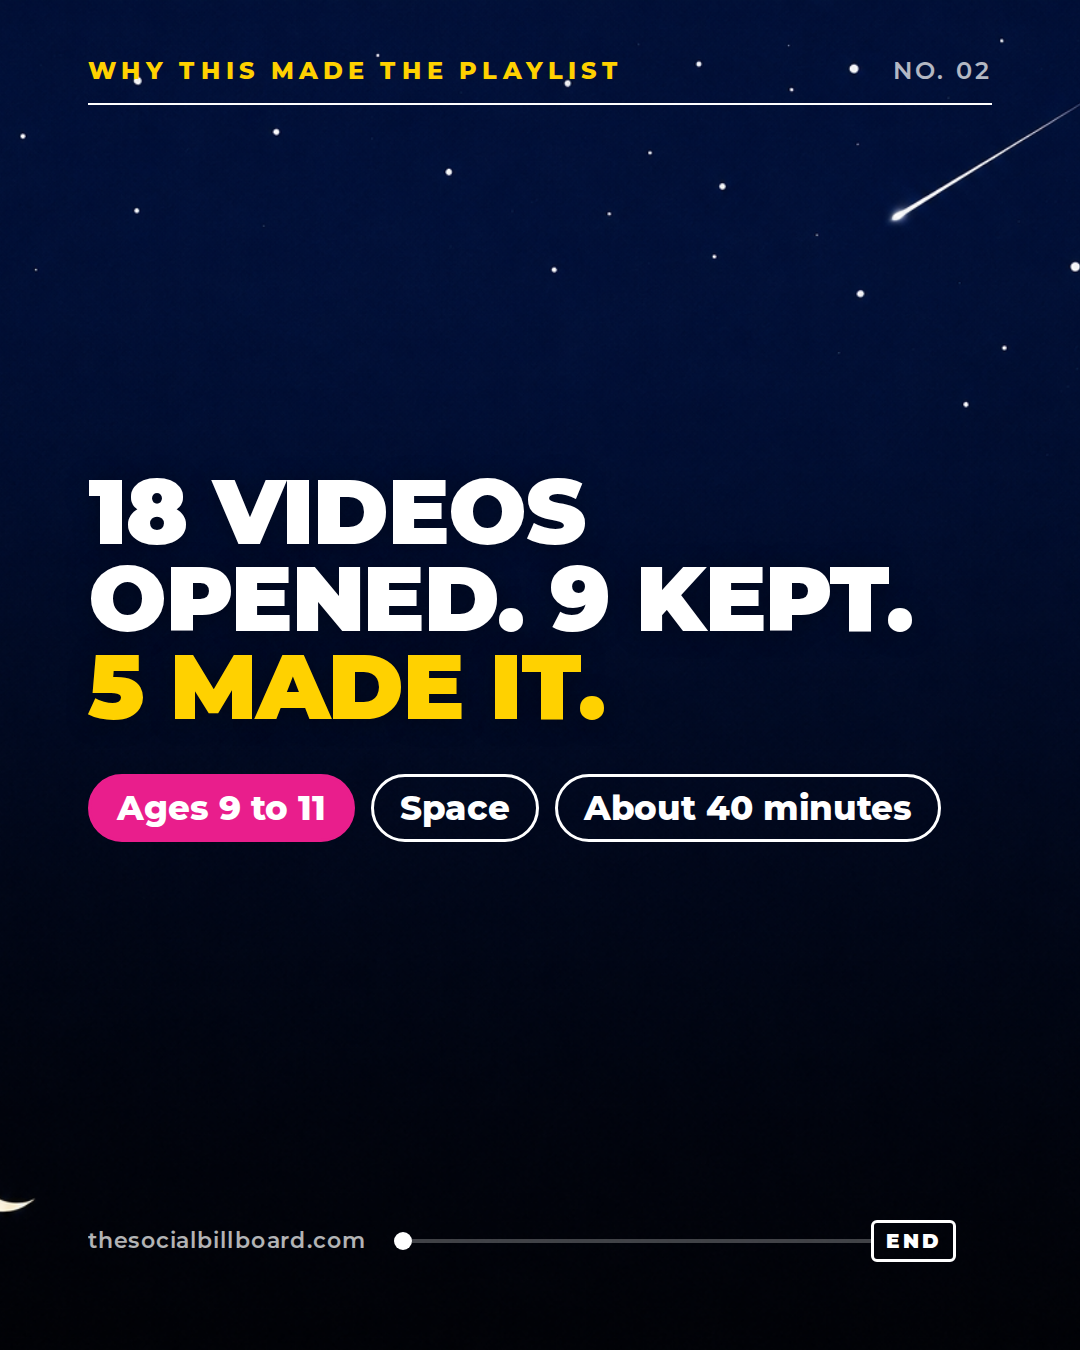
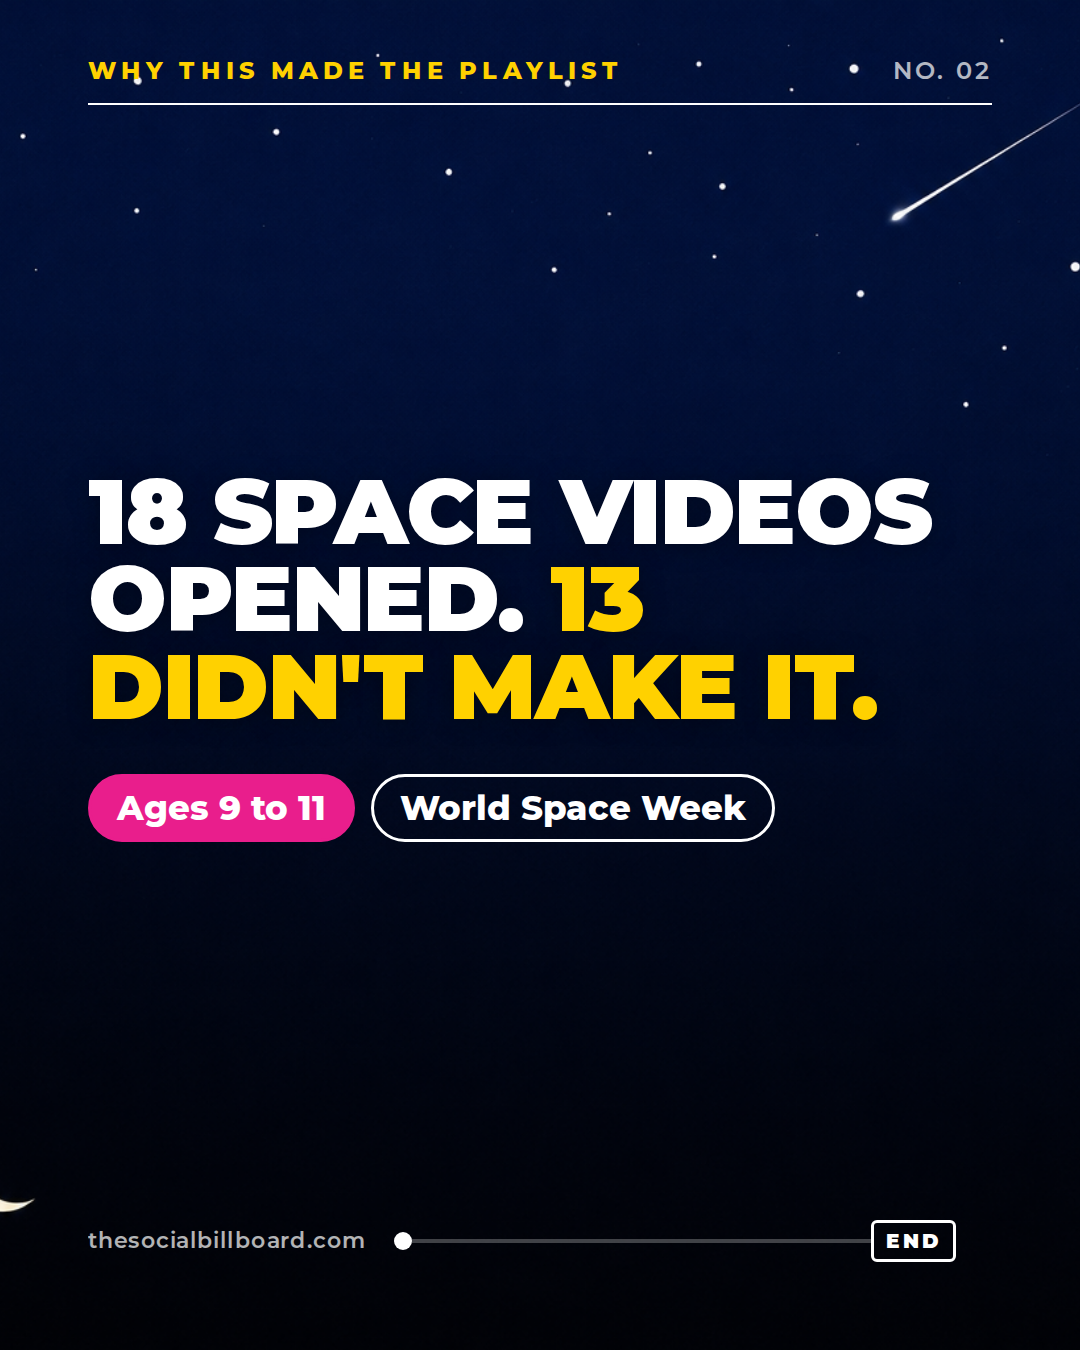
SB launch: redo the Space review carousel with platform rules
Ten slides: curiosity hook, a standalone second hook for the slide 2 re-show,
the cuts, the five questions, what made it, the one autoplay study, honest
limits, a send ask. Alt text per slide. Facebook link moves to the first
comment. The rules are saved in the sb-carousel skill.

Claude-Session: https://claude.ai/code/session_01V25U8gXKTwGPFtnMkF6qQN

Changed region(s): [[0.0917, 0.3422, 0.8861, 0.56], [0.3667, 0.56, 0.8861, 0.6222]]

diff --git a/plans/sb-parent-launch-control.md b/plans/sb-parent-launch-control.md
@@ -370,52 +370,92 @@ Caption (IG and FB):
 Confirm before it goes: that the first version was built with developers
 (the source says so; you know the detail).
 
-**DAY 4. Why These Five Made The Space Playlist.** Carousel, nine slides,
-`decks/series-12-why-this-made-the-playlist-space.json`, renders in
+**DAY 4. Why These Five Made The Space Playlist.** Carousel, ten slides,
+`decks/series-12-why-this-made-the-playlist-space.json` (the brief, the
+sources and the alt text are in the deck), renders in
 `content/packs/2026-10-05-sb-launch-control/renders/day-04-why-this-made-the-playlist-space/`.
 Added 5 October, when Justin approved Space and asked whether to show the
 review behind it. Yes: the review is the proof of the product, and every
-line comes from the Safe Watch handoff ("why we chose this playlist" and the
-internal playlist notes), nothing added. It goes out during Space week,
-which is why it takes Day 4 and How it works moves to Day 8.
+line comes from the Safe Watch handoff, nothing added. Redone the same day
+with the carousel method from the video and current Instagram and Facebook
+practice (the verdicts are below). It goes out during Space week, which is
+why it takes Day 4 and How it works moves to Day 8.
 
-1. 18 videos opened. 9 kept. 5 made it. (age chip, Space, about 40 minutes)
-2. The problem: you haven't got time to open 18 videos on a school night.
-3. Five questions, every video: plays in the UK, who made it and who paid,
-   how long, what's in it, where the next click goes.
-4. What got cut: a brand funded series; a stargazing video that was really a
-   kit advert.
-5. Also cut: two lovely films one click from "How will the Universe end?"
-6. Nearly got wrong: the observatory's guide presented by a guest. We looked
-   her up.
-7. Why about 40 minutes: no official limit at this age, so one session.
-8. Honest limits: new channels, shorter check, not the full panel; open
-   YouTube comments on four of five; no list is zero risk.
-9. Every week, we open them first. GET A FREE PLAYLIST.
+1. Hook: 18 space videos opened. 13 didn't make it. (age chip)
+2. Second hook, because Instagram shows a carousel again from slide 2 to
+   people who scrolled past slide 1: nobody has time to open 18 videos on a
+   school night. So we did.
+3. Cut: a brand funded series, from a presenter I rate.
+4. Cut: a stargazing video that was really a kit advert; two films one click
+   from "How will the Universe end?"
+5. Nearly got wrong: the observatory's guide presented by a guest.
+6. Five questions, every video.
+7. What made it: the five videos, about 40 minutes.
+8. Why five, not fifty: the one small autoplay study (Hiniker, 2018).
+9. Honest limits.
+10. Send this to a parent with a space mad child. GET A FREE PLAYLIST.
 
-Caption (IG; Facebook adds the link):
+Instagram caption:
 
-> Why these five made the Space playlist.
+> Space videos for 9 to 11 year olds: we opened 18 and kept 5. Here's what we cut, and why.
 >
-> Eighteen videos opened and checked this week. Nine kept. Five made it.
+> A brand funded series from a presenter I rate, because a children's playlist shouldn't double as an advert. A stargazing video that was really a kit advert. Two lovely films that sit one click from "How will the Universe end?"
 >
-> What got cut is the interesting part. A brand funded series from a
-> presenter I rate, because a children's playlist shouldn't double as an
-> advert. A stargazing video that was really a kit advert. Two lovely films
-> that sit one click from "How will the Universe end?"
+> The one I nearly got wrong was a stargazing guide on an observatory's channel, presented by a guest creator. I looked her up and she checks out, so it stayed. You have to look every time.
 >
-> And the one I nearly got wrong: a stargazing guide on an observatory's
-> channel, presented by a guest creator. I looked her up and she checks out,
-> so it stayed. You have to look every time.
+> What made it: five videos, about forty minutes, ending with a beginner's guide to stargazing. The Draconid meteor shower peaks tonight, best just after dark.
 >
-> These channels are new to us, so they had our shorter check, not our full
-> panel. I'd rather tell you that than imply more.
+> These channels are new to us, so they had our shorter check, not our full panel. I'd rather tell you that than imply more.
 >
-> Get a free playlist: link in bio. And tell me one thing you'd want us to
-> check that we haven't.
+> Send this to a parent with a space mad child. Your first playlist is free: link in bio.
+>
+> #WorldSpaceWeek #Draconids #ParentingUK
+
+Facebook: all ten as one photo post, the same text with this ending:
+
+> Space videos for 9 to 11 year olds: we opened 18 and kept 5. Here's what we cut, and why.
+>
+> A brand funded series from a presenter I rate, because a children's playlist shouldn't double as an advert. A stargazing video that was really a kit advert. Two lovely films that sit one click from "How will the Universe end?"
+>
+> The one I nearly got wrong was a stargazing guide on an observatory's channel, presented by a guest creator. I looked her up and she checks out, so it stayed. You have to look every time.
+>
+> What made it: five videos, about forty minutes, ending with a beginner's guide to stargazing. The Draconid meteor shower peaks tonight, best just after dark.
+>
+> These channels are new to us, so they had our shorter check, not our full panel. I'd rather tell you that than imply more.
+>
+> What would you want us to check before a video reaches your child? Tell me and it goes on the list.
+>
+> The link to get a free playlist is in the first comment.
+
+First comment, posted straight after:
+
+> Your first playlist is free, one child profile, no card needed: https://thesocialbillboard.com/safe-youtube-for-kids?utm_source=facebook&utm_medium=post&utm_campaign=sb_launch
+
+How to post it (19:00, Friday 9 October):
+- Paste the alt text for each slide from the `.alt.txt` files (Instagram:
+  Advanced settings, Accessibility).
+- Within the hour, share it to your Story with a link sticker to the
+  playlist page, then the Space Stories (hero card, "Look up tonight"). The
+  sticker is the one tappable link on Instagram besides the bio.
+- Reply to every comment in the first hour, in a full sentence, with a
+  question back.
+- Music on the carousel is optional: a quiet track from the library, never a
+  trending sound for its own sake.
 
 Never on the slides or in the caption: the video links, "safe", "nine
 checks", "no autoplay" (waits for G2).
+
+**Expert advice, through the feedback filter (5 October).**
+Adopt: the video's brief (who, why, CTA, slide count, words per slide);
+slide 2 as a second hook; a send prompt as the Instagram call to action,
+because sends to a friend are the signal Instagram weighs most for reach
+beyond followers; search words in the first line of the caption; three
+hashtags at most; alt text; the Story link sticker; replies in the first
+hour; the Facebook link in the first comment with a question to end the
+post. Adapt: a face on slide 1 lifts carousels, so once there is a photo of
+Justin holding the phone with the playlist on screen, it replaces the night
+sky. Decline: "comment YES" style asks (Meta demotes engagement bait),
+chasing trending audio, and paying to boost before any post has a result.
 
 **From week 2 this is the Tuesday slot.** Every approved handoff already
 writes "why we chose this playlist", so each week's review is a copy job,

diff --git a/.claude/skills/sb-carousel/SKILL.md b/.claude/skills/sb-carousel/SKILL.md
@@ -68,6 +68,34 @@ ready to design.
    so Justin can open them from GitHub, and add the day to the posting page if
    one exists for the week.
 
+## Platform rules (Instagram and Facebook)
+
+Adopted 5 October 2026 through the feedback filter; the verdicts are in
+`plans/sb-parent-launch-control.md`, Day 4.
+
+- **Slide 1 is a curiosity gap**, a number or a tension the swipe resolves
+  ("18 space videos opened. 13 didn't make it.").
+- **Slide 2 is a second hook that stands alone.** Instagram shows a carousel
+  again from slide 2 to people who scrolled past slide 1.
+- **Story order:** hook, the problem, the tension (what got cut, what nearly
+  went wrong), the payoff, the honest limit, the ask.
+- **The Instagram ask is a send** ("Send this to a parent with..."), with
+  GET A FREE PLAYLIST as the pill. Sends to a friend are what Instagram
+  weighs most for reach beyond followers. One ask per post.
+- **Caption:** the first line carries the words a parent would search
+  ("space videos for 9 to 11 year olds"), short paragraphs, three hashtags
+  at most, link in bio.
+- **Alt text on every slide**, written into the deck as `alt`; the renderer
+  writes the `.alt.txt` files.
+- **Facebook:** all slides as one photo post, the post ends on a real
+  question, and the link goes in the first comment.
+- **After posting:** share to the Story with a link sticker within the hour,
+  and reply to every comment in the first hour with a question back.
+- **Never:** "comment YES" asks (Meta demotes engagement bait), trending
+  audio for its own sake, or a paid boost before a post has a result.
+- **A face lifts slide 1.** When a real photo of Justin with the product
+  exists, it goes on slide 1 in place of a background.
+
 ## Sizes
 
 | Asset | Size | Note |

diff --git a/plans/decisions.md b/plans/decisions.md
@@ -300,4 +300,4 @@ Titles only. Open the archive at the line number in its own index for the full e
 
 ## 5 October 2026: Space playlist approved; the review behind it becomes a post (PR 1192)
 
-Justin approved Space for 9 to 11. Day 4 (Fri 9 Oct) is now "Why these five made the Space playlist", a nine slide carousel built only from the Safe Watch handoff: 18 opened, 9 kept, 5 made it, the five questions, what got cut, the honest limits. How it works moves to Day 8. From week 2 the review is the standing Tuesday post. The Happy Newspaper grid was taken as a layout reference only.
+Justin approved Space for 9 to 11. Day 4 (Fri 9 Oct) is now "Why these five made the Space playlist", a ten slide carousel (redone the same day with the video method and Instagram and Facebook practice, now in the sb-carousel skill) built only from the Safe Watch handoff: 18 opened, 9 kept, 5 made it, the five questions, what got cut, the honest limits. How it works moves to Day 8. From week 2 the review is the standing Tuesday post. The Happy Newspaper grid was taken as a layout reference only.
